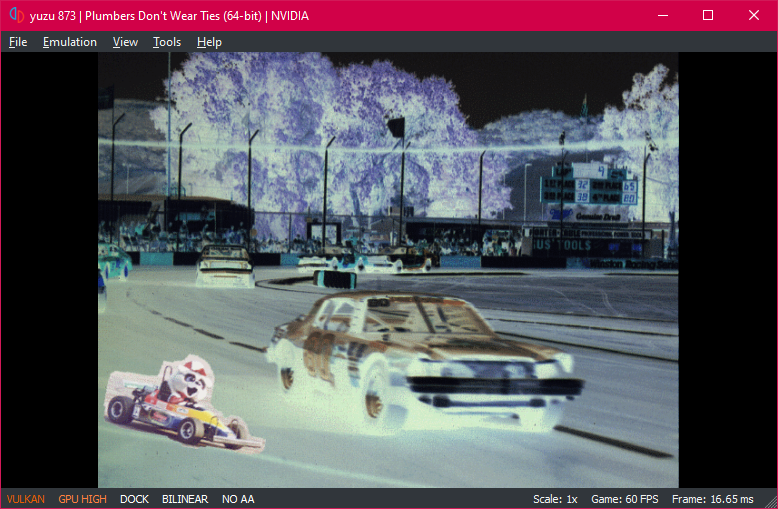
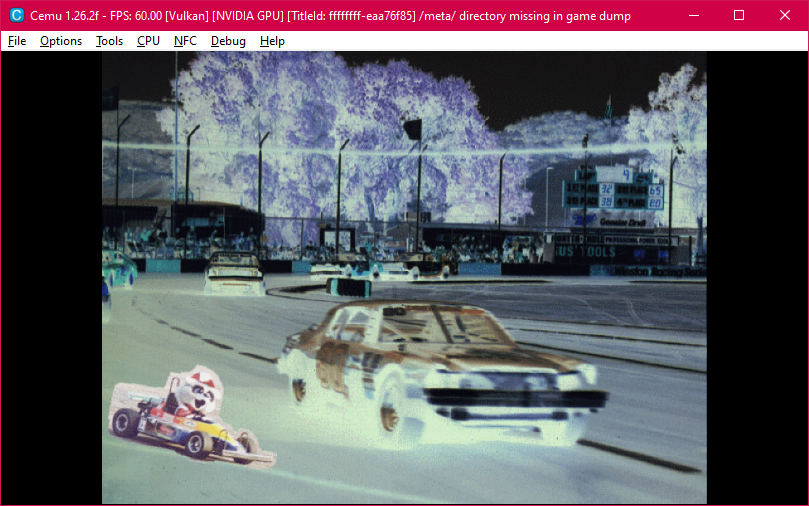
Updated README and screenshots.

diff --git a/README.md b/README.md
@@ -1,10 +1,10 @@
-# Plumbers Don't Wear Ties - Nintendo Switch
+# Plumbers Don't Wear Ties - WiiU
 
 This project is my own implementation of the game `Plumbers Don't Wear Ties` written from scratch, that is, the original program has not been decompiled or reverse-engineered. However, the game still needs the assets from the original PC version to run. The only thing that has been reverse-engineered is the `GAME.BIN` file, done by [Daniel Marschall](https://misc.daniel-marschall.de/spiele/plumbers/?page=pc_gamebin), which contains information about the scenes, background images, sounds and sequences of events.
 
 This game is infamous for being considered one of the worst games ever made. The 3DO version is much more known (relatively speaking), but there was also a very rare Windows version released in 1993. Due to being 16bit, it can't be run on modern PCs.
 
-This is a port for the Nintendo Switch based on my SDL2 PC version of the game. This is the current state of the project:
+This is a port for the Nintendo WiiU based on my SDL2 PC version of the game. This is the current state of the project:
 
 - Rendering and audio are implemented with SDL2.
 - It is possible to advance to the next picture to progress quickly through the game.
@@ -15,7 +15,7 @@ This is a port for the Nintendo Switch based on my SDL2 PC version of the game. 
 The main requirement is to have [devkitPro](https://devkitpro.org).
 
 Follow the instructions to install devkitPro here: https://devkitpro.org/wiki/Getting_Started.
-You will also need the Switch development package and the libraries `switch-sdl2` and `switch-sdl2_ttf`.
+You will also need the WiiU development package and the libraries `wiiu-sdl2` and `wiiu-sdl2_ttf`.
 
 If you use Windows or Ubuntu, here are more detailed instructions.
 
@@ -29,23 +29,24 @@ Even though devkitPro offers a Windows installer, I've had some issues setting i
 ### Ubuntu and other Debian based linux distros
 
 1. Open the terminal in the folder where you want to clone the project.
-2. Clone it with the command `git clone --branch switch https://github.com/MaikelChan/PlumbersDontWearTies-SDL`. A subfolder called `PlumbersDontWearTies-SDL` will be created containing the project.
+2. Clone it with the command `git clone --branch wiiu https://github.com/MaikelChan/PlumbersDontWearTies-SDL`. A subfolder called `PlumbersDontWearTies-SDL` will be created containing the project.
 3. Move to that subfolder with `cd PlumbersDontWearTies-SDL`.
 4. Download the latest version of the [custom devkitPro pacman](https://github.com/devkitPro/pacman/releases/tag/v1.0.2), that will be used to download the compilers and libraries to build the project. Once downloaded, put it in the `PlumbersDontWearTies-SDL` folder.
 5. Install devkitPro pacman with this command: `sudo gdebi devkitpro-pacman.amd64.deb`. If gdebi is not found, install it with `sudo apt install gdebi-core`, and then try again installing pacman.
 6. Use the following command to sync pacman databases: `sudo dkp-pacman -Sy`.
 7. Now update packages with `sudo dkp-pacman -Syu`.
-8. Install the Switch development tools with `sudo dkp-pacman -S switch-dev`.
-9. Install SDL2 and SDL2_ttf with `sudo dkp-pacman -S switch-sdl2 switch-sdl2_ttf`.
+8. Install the WiiU development tools with `sudo dkp-pacman -S wiiu-dev`.
+9. Install SDL2 and SDL2_ttf with `sudo dkp-pacman -S wiiu-sdl2 wiiu-sdl2_ttf`.
 10. Set the DEVKITPRO environment variables so the system knows where the compilers and libraries are installed with these commands:
     - `export DEVKITPRO=/opt/devkitpro`.
+    - `export DEVKITPPC=/opt/devkitpro/devkitPPC`.
 11. To generate Build the project with the command `make -j4`.
 
-After a successful build, you will get a file called `PlumbersDontWearTies-SDL.nro`, which is the main executable.
+After a successful build, you will get a file called `PlumbersDontWearTies-SDL.rpx`, which is the main executable.
 
 ## How to run
 
-1. Go to the root of your SD card and create a folder named `PlumbersDontWearTies`. If you are using [Yuzu emulator](https://yuzu-emu.org/downloads/), open it, go to the menu `File/Open yuzu Folder`, and the root of the emulated SD card is in the `sdmc` folder.
+1. Go to the root of your SD card and create a folder named `PlumbersDontWearTies`. If you are using [Cemu emulator](https://cemu.info/#download), create a folder called `sdcard` inside the `cemu` folder if it doesn't exist, and that will be the root of the SD card.
 2. For legal reasons, you will need to get the original PC game on your own to obtain the assets like graphics and sound effects. Those are not contained in this repository.
 3. Copy all PC game's assets to the `PlumbersDontWearTies` folder that was created earlier.
 4. Grab the `Font.ttf` located in this repository or pick a TTF font file of your liking and rename it `Font.ttf`. Put it inside the `PlumbersDontWearTies` folder. This will be used to render the score in-game.
@@ -53,11 +54,11 @@ After a successful build, you will get a file called `PlumbersDontWearTies-SDL.n
 
 ## How to play
 
-| Button      | Action                                      |
-|-------------|---------------------------------------------|
-| D-Pad       | Select options in a choice selection screen |
-| A           | Skip to the next picture / Confirm choice   |
-| -           | Exit the game                               |
+| Button           | Action                                      |
+|------------------|---------------------------------------------|
+| Joystick / D-Pad | Select options in a choice selection screen |
+| A                | Skip to the next picture / Confirm choice   |
+| -                | Exit the game                               |
 
 ## Screenshots
 
